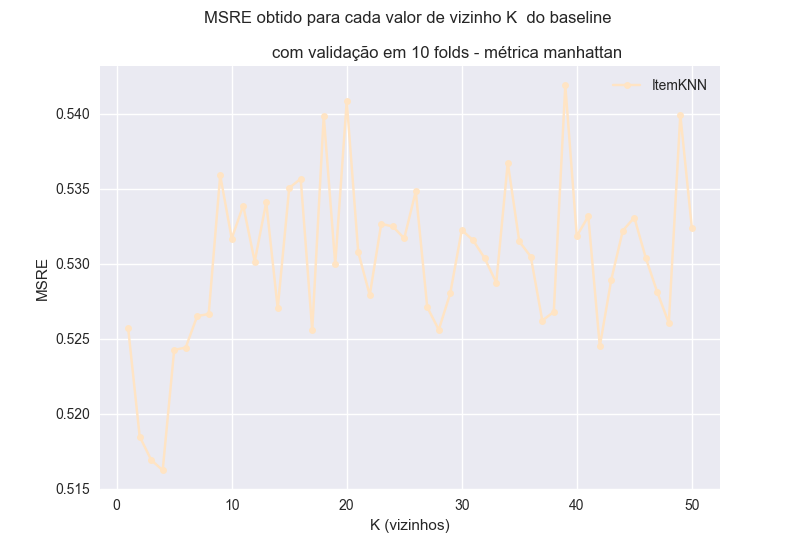
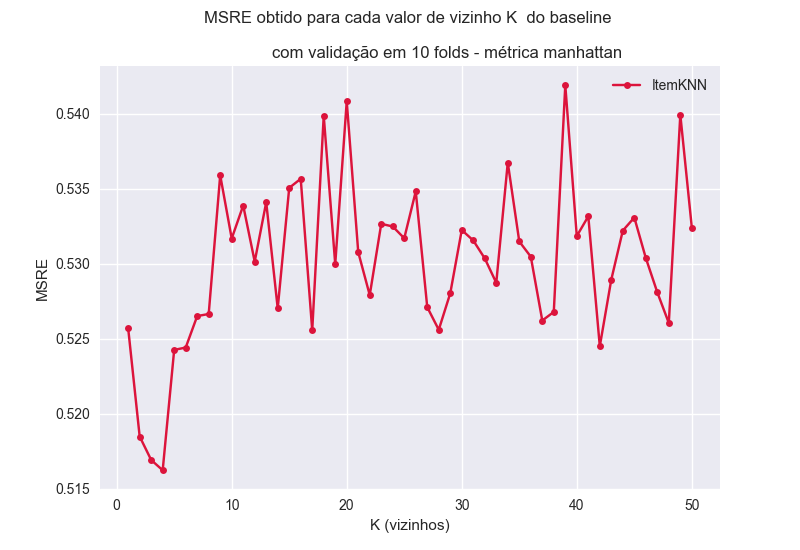
generating graphics

diff --git a/experiments.py b/experiments.py
@@ -93,7 +93,104 @@ def exp_baseline_10():
     MRSE_values_list = graphics.MRSE_values_from_file(file)
     #print(MRSE_values_list)
 
-    graphics.MRSE_graphic('10', 50, MRSE_values_list, "ItemKNN", 10, "manhattan","bisque")
+    graphics.MRSE_graphic('10', 50, MRSE_values_list, "ItemKNN", 10, "manhattan","crimson")
+
+
+#UserKNN jaccard:
+def exp_baseline_11():
+
+    file = Path.cwd().joinpath('UserKNN_jaccard_1_to_50_neighbors.txt')
+    MRSE_values_list = graphics.MRSE_values_from_file(file)
+    #print(MRSE_values_list)
+
+    graphics.MRSE_graphic('11', 50, MRSE_values_list, "UserKNN", 10, "jaccard","tomato")
+
+#ItemKNN jaccard:
+def exp_baseline_12():
+
+    file = Path.cwd().joinpath('ItemKNN_jaccard_1_to_50_neighbors.txt')
+    MRSE_values_list = graphics.MRSE_values_from_file(file)
+    #print(MRSE_values_list)
+
+    graphics.MRSE_graphic('12', 50, MRSE_values_list, "ItemKNN", 10, "jaccard","dodgerblue")
+
+
+def all_graphs_UserKNN():
+
+    plot_info = []
+
+    baseline_cosine_userknn_file = Path.cwd().joinpath('UserKNN_cosine_1_to_50_neighbors.txt')
+    MRSE_values_list_cosine = graphics.MRSE_values_from_file(baseline_cosine_userknn_file)
+    plot_0 = {'RMSE_values': MRSE_values_list_cosine, 'legend': 'UserKNN - cosseno', 'color': 'teal'}
+
+    plot_info.append(plot_0)
+
+    baseline_hamming_userknn_file = Path.cwd().joinpath('UserKNN_hamming_1_to_50_neighbors.txt')
+    MRSE_values_list_hamming = graphics.MRSE_values_from_file(baseline_hamming_userknn_file)
+    plot_1 = {'RMSE_values': MRSE_values_list_hamming, 'legend': 'UserKNN - hamming', 'color': 'orange'}
+
+    plot_info.append(plot_1)
+
+    file = Path.cwd().joinpath('UserKNN_minkowski_1_to_50_neighbors.txt')
+    MRSE_values_list_minkowski = graphics.MRSE_values_from_file(file)
+    plot_2 = {'RMSE_values': MRSE_values_list_minkowski, 'legend': 'UserKNN - minkowski', 'color': 'deeppink'}
+    
+    plot_info.append(plot_2)
+
+    file = Path.cwd().joinpath('UserKNN_chebyshev_1_to_50_neighbors.txt')
+    MRSE_values_list_chebyshev = graphics.MRSE_values_from_file(file)
+    plot_3 = {'RMSE_values': MRSE_values_list_chebyshev, 'legend': 'UserKNN - chebyshev', 'color': 'chartreuse'}
+    
+    plot_info.append(plot_3)
+
+
+    file = Path.cwd().joinpath('UserKNN_manhattan_1_to_50_neighbors.txt')
+    MRSE_values_list_manhattan = graphics.MRSE_values_from_file(file)
+    plot_4 = {'RMSE_values': MRSE_values_list_manhattan, 'legend': 'UserKNN - manhattan', 'color': 'indigo'}
+    
+    plot_info.append(plot_4)
+
+    graphics.MRSE_graphic_all_exps(50, plot_info, 10, 'UserKNN')
+
+
+def all_graphs_ItemKNN():
+
+    plot_info = []
+
+    baseline_cosine_itemknn_file = Path.cwd().joinpath('ItemKNN_cosine_1_to_50_neighbors.txt')
+    MRSE_values_list_cosine = graphics.MRSE_values_from_file(baseline_cosine_itemknn_file)
+    plot_0 = {'RMSE_values': MRSE_values_list_cosine, 'legend': 'ItemKNN - cosseno', 'color': 'darkmagenta'}
+
+    plot_info.append(plot_0)
+
+    baseline_hamming_userknn_file = Path.cwd().joinpath('ItemKNN_hamming_1_to_50_neighbors.txt')
+    MRSE_values_list_hamming = graphics.MRSE_values_from_file(baseline_hamming_userknn_file)
+    plot_1 = {'RMSE_values': MRSE_values_list_hamming, 'legend': 'ItemKNN - hamming', 'color': 'deeppink'}
+
+    plot_info.append(plot_1)
+
+    file = Path.cwd().joinpath('ItemKNN_minkowski_1_to_50_neighbors.txt')
+    MRSE_values_list_minkowski = graphics.MRSE_values_from_file(file)
+    plot_2 = {'RMSE_values': MRSE_values_list_minkowski, 'legend': 'ItemKNN - minkowski', 'color': 'steelblue'}
+    
+    plot_info.append(plot_2)
+
+    file = Path.cwd().joinpath('ItemKNN_chebyshev_1_to_50_neighbors.txt')
+    MRSE_values_list_chebyshev = graphics.MRSE_values_from_file(file)
+    plot_3 = {'RMSE_values': MRSE_values_list_chebyshev, 'legend': 'ItemKNN - chebyshev', 'color': 'springgreen'}
+    
+    plot_info.append(plot_3)
+
+
+    file = Path.cwd().joinpath('ItemKNN_manhattan_1_to_50_neighbors.txt')
+    MRSE_values_list_manhattan = graphics.MRSE_values_from_file(file)
+    plot_4 = {'RMSE_values': MRSE_values_list_manhattan, 'legend': 'ItemKNN - manhattan', 'color': 'crimson'}
+    
+    plot_info.append(plot_4)
+
+    graphics.MRSE_graphic_all_exps(50, plot_info, 10, 'ItemKNN')
+
+    
 
 
 if __name__ == '__main__':
@@ -116,4 +213,12 @@ if __name__ == '__main__':
 
     #exp_baseline_9()
 
-    exp_baseline_10()
+    #exp_baseline_10()
+
+    #exp_baseline_11()
+
+    #exp_baseline_12()
+
+    #all_graphs_UserKNN()
+
+    all_graphs_ItemKNN()

diff --git a/graphics.py b/graphics.py
@@ -167,6 +167,48 @@ def baseline_proposal_graphic(MRSE_values_baseline, MRSE_values_proposal, num_ne
     plt.savefig(filename)
     plt.close()
 
+#plots_info: (dict) for each plot, contains:
+# RMSE values, legend name, dist, color of plot
+def MRSE_graphic_all_exps(num_neighbors_max, plots_info , k_folds, algorithm_type):
+
+    plt.style.use('seaborn')
+
+    titulo = '''RMSE obtido para cada valor de vizinho K  dos diversos baselines do tipo ''' +algorithm_type +'''\n  com validação em ''' + str(k_folds) + ' folds, para diversas distâncias'
+
+    plt.title(titulo)
+
+    plt.xlabel("K (vizinhos)")
+    plt.ylabel("RMSE")
+
+    k_values = list(range(1, num_neighbors_max+1))
+    x = k_values
+
+    plot_0 = plots_info[0]
+    plt.plot(x, plot_0['RMSE_values'], label = plot_0['legend'], color = plot_0['color'], marker = ".", linestyle = "solid", markersize = "7")    
+
+    plot_1 = plots_info[1]
+    plt.plot(x, plot_1['RMSE_values'], label = plot_1['legend'], color = plot_1['color'], marker = ".", linestyle = "solid", markersize = "7")    
+
+    plot_2 = plots_info[2]
+    plt.plot(x, plot_2['RMSE_values'], label = plot_2['legend'], color = plot_2['color'], marker = ".", linestyle = "solid", markersize = "7")   
+
+    plot_3 = plots_info[3]
+    plt.plot(x, plot_3['RMSE_values'], label = plot_3['legend'], color = plot_3['color'], marker = ".", linestyle = "solid", markersize = "7")     
+
+    plot_4 = plots_info[4]
+    plt.plot(x, plot_4['RMSE_values'], label = plot_4['legend'], color = plot_4['color'], marker = ".", linestyle = "solid", markersize = "7")    
+   
+    plt.legend()
+
+    if algorithm_type == 'UserKNN':
+        filename = 'UserKNN_comparison.png'
+
+    if algorithm_type == 'ItemKNN':
+        filename = 'ItemKNN_comparison.png'
+
+    plt.savefig(filename)
+    plt.close()
+
 if __name__ == "__main__":
 
     
